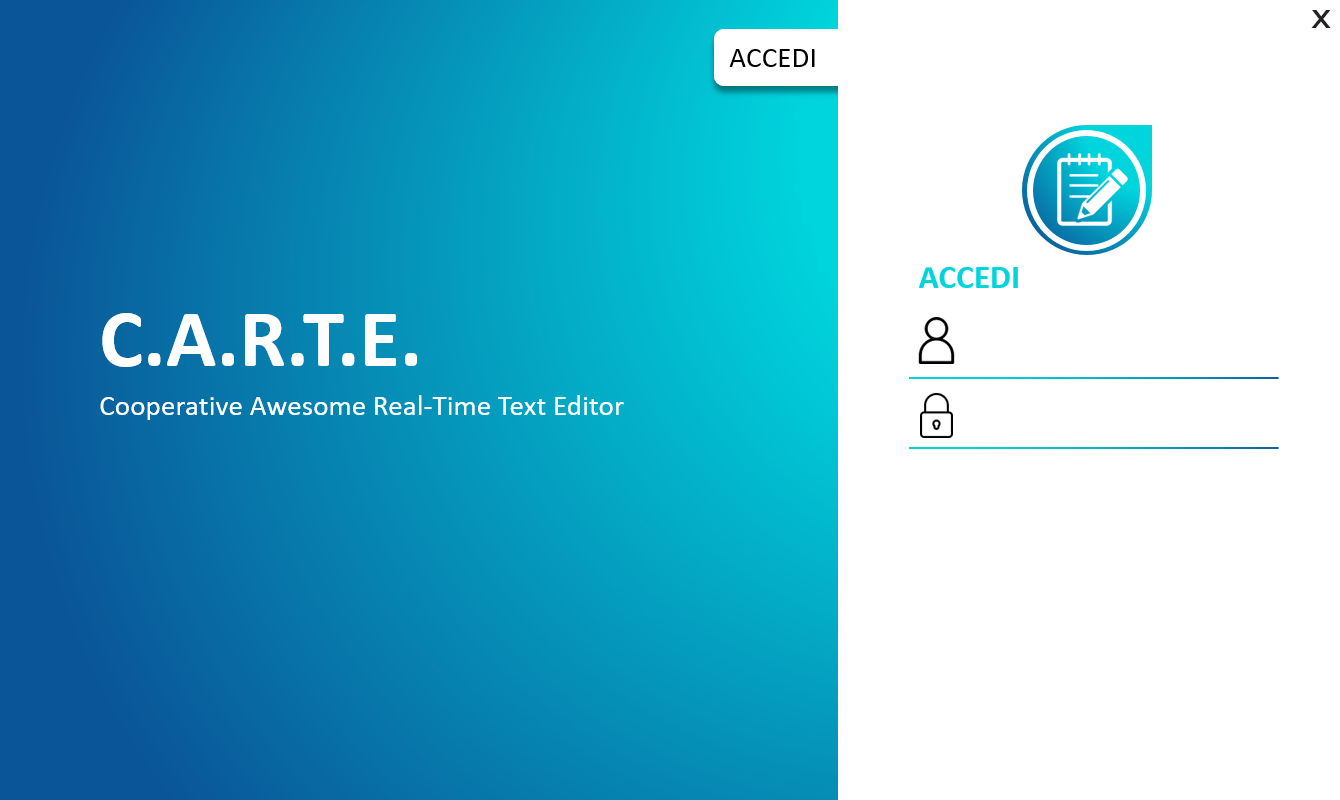
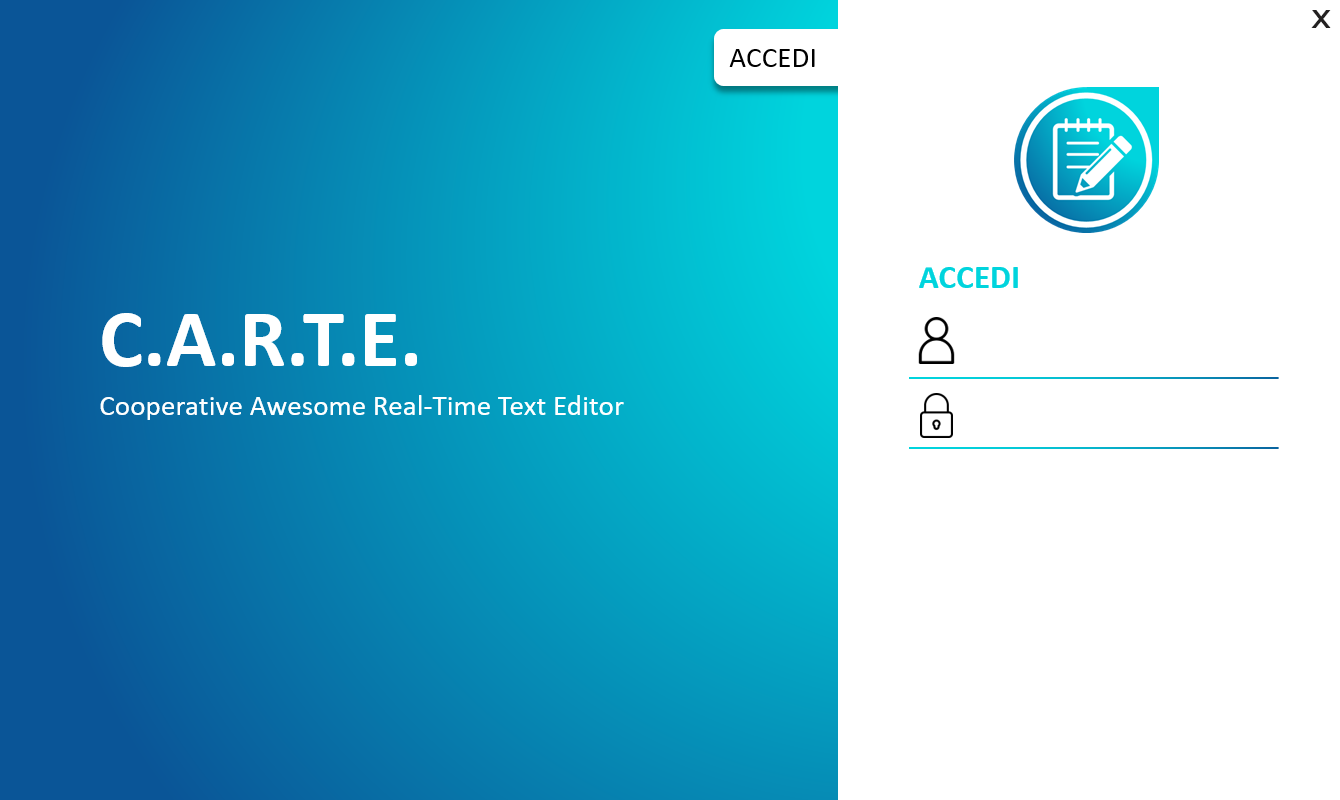
v0.1.4a - Nightly 1997
Interface optimization

Changed region(s): [[0.7343, 0.0938, 0.8873, 0.3438]]

diff --git a/ClientModule/versioninfo.h b/ClientModule/versioninfo.h
@@ -13,7 +13,7 @@ private:
     QString str;
 public:
     //CONSTRUCTOR WITHOUT PARAMETER (Default)
-    VersionInfo(): Major(0), Minor(1), Patch(4), ReleaseType("a"), BuildTypeAndNumber("Daily 1196"){
+    VersionInfo(): Major(0), Minor(1), Patch(4), ReleaseType("a"), BuildTypeAndNumber("Nightly 1197"){
         str = "v"+QString::number(Major)+"."+QString::number(Minor)+"."+QString::number(Patch)+ReleaseType+" - "+BuildTypeAndNumber;
     }
 

diff --git a/ClientModule/changelog.md b/ClientModule/changelog.md
@@ -3,7 +3,11 @@
 ### TODO
 - BUG --> Ridimensionamento finestre/bottoni al cambio di DPI -> HALF FIXED
 
-## [v0.1.4a - Nightly 1196] - 2019/10/19 @ 02:32
+## [v0.1.4a - Nightly 1197] - 2019/10/20 @ 18:00
+### Cambiamenti
+- Ottimizzazione dell'interfaccia
+
+## [v0.1.4a - Nightly 1196] - 2019/10/20 @ 02:32
 ### Cambiamenti
 - Half BugFix: Aumentare DPI continua a tagliare i bottoni, ma decrementarli non taglia più la finestra
 
